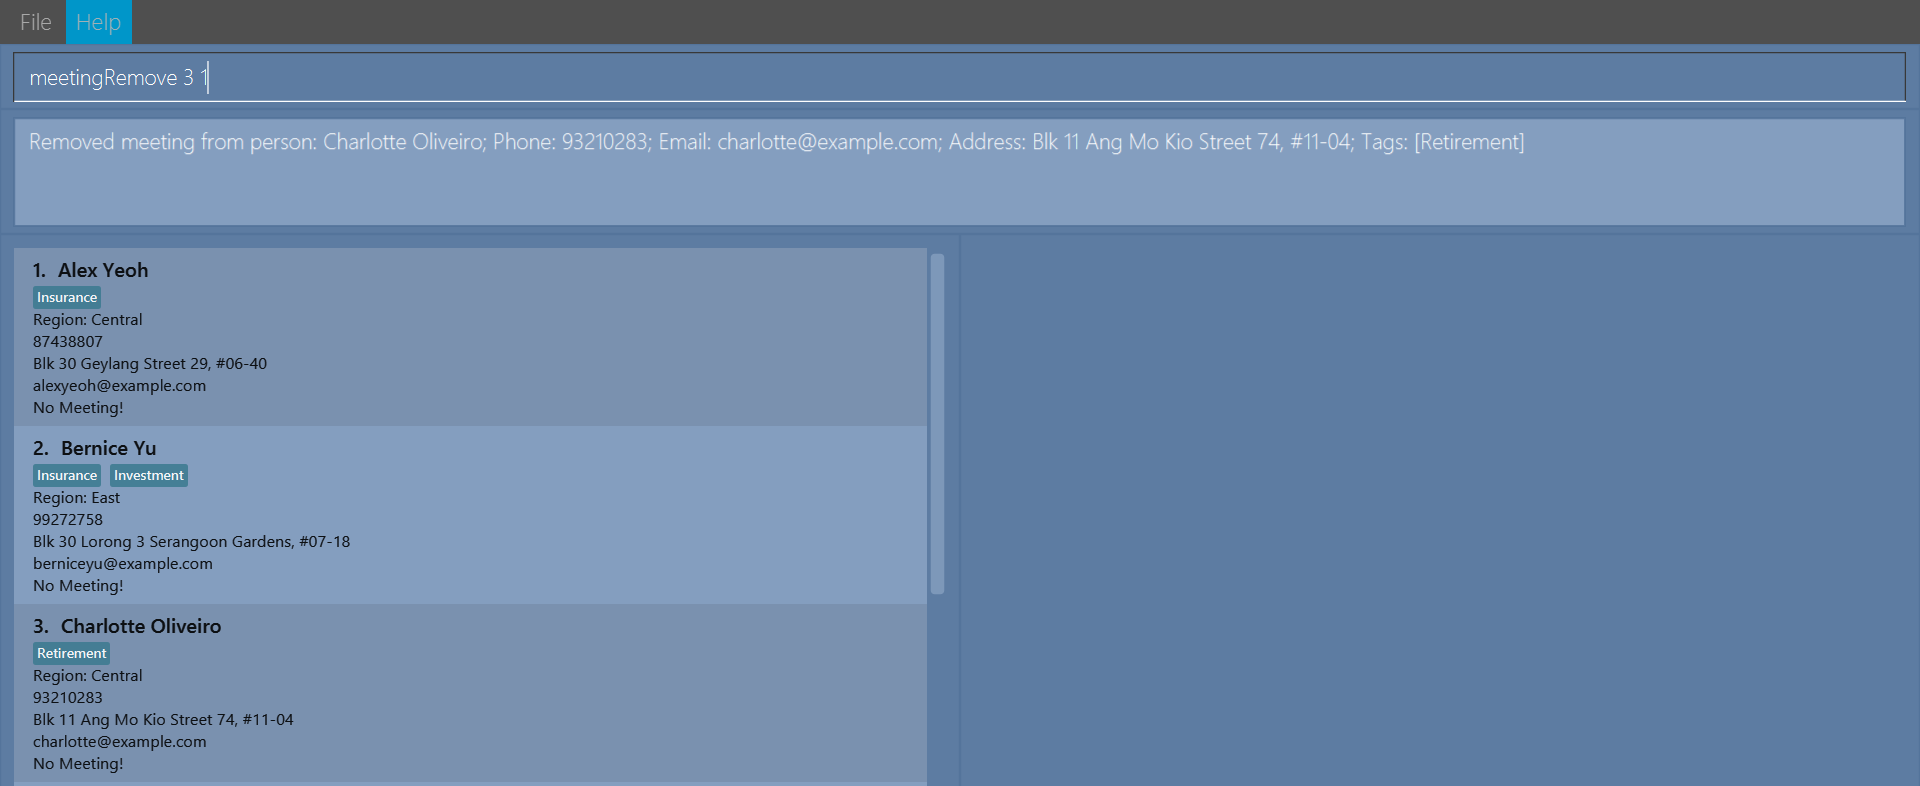
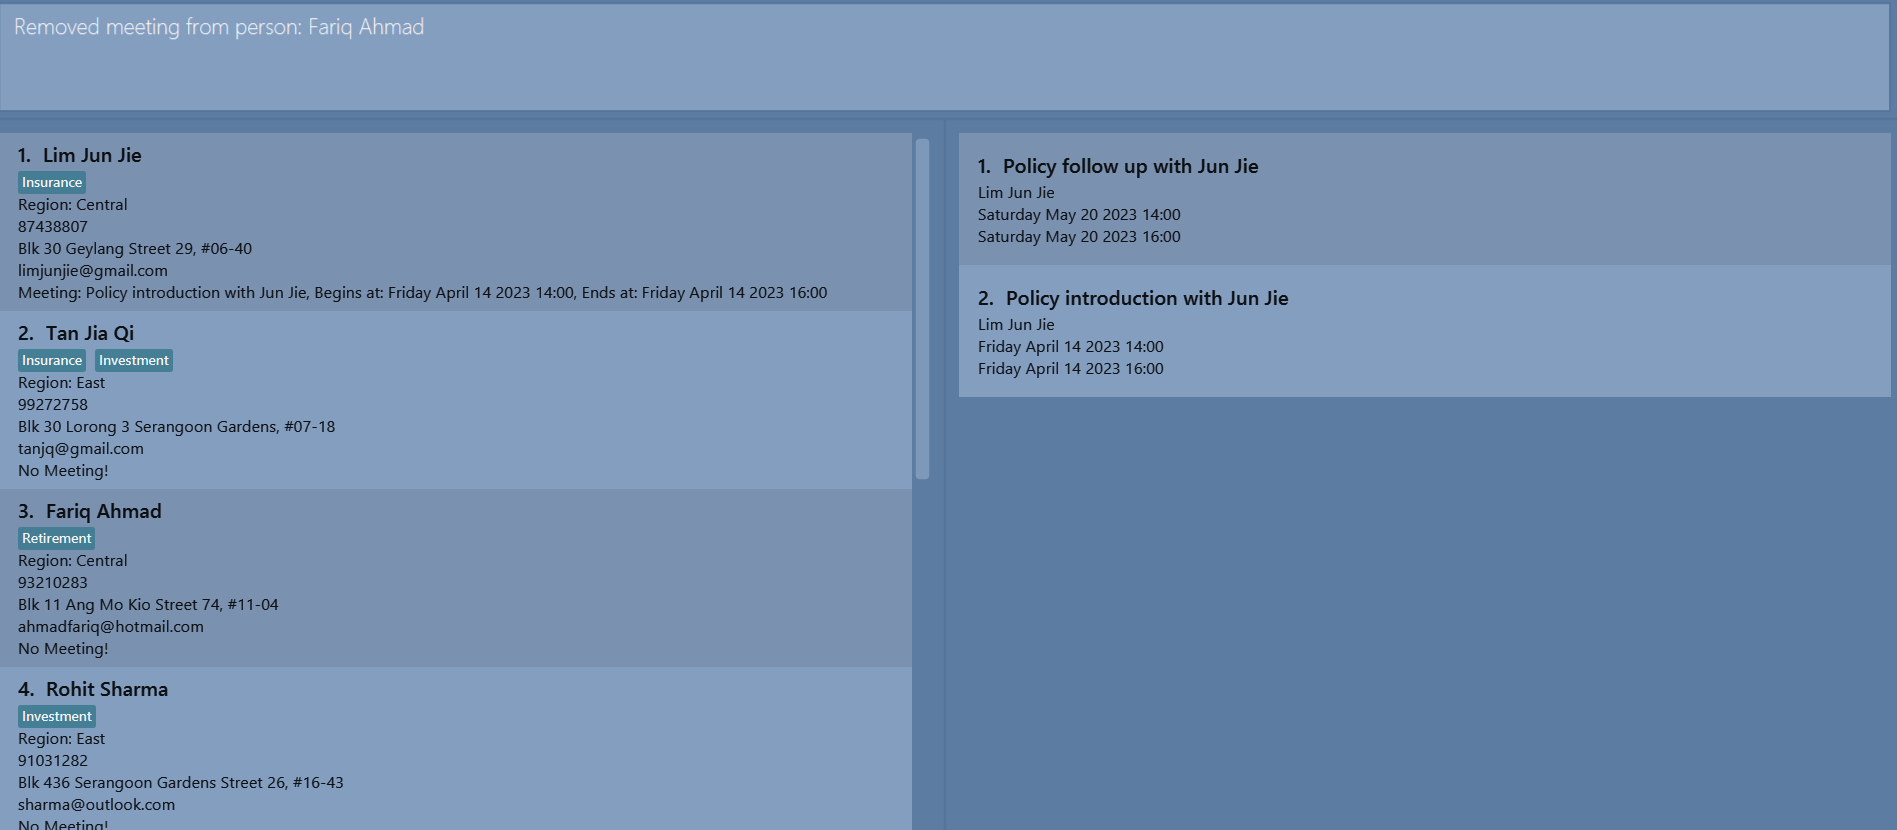
Update photos for User Guide
Update photos for User Guide

Changed region(s): [[0.0, 0.0, 1.0, 1.0]]

diff --git a/docs/UserGuide.md b/docs/UserGuide.md
@@ -176,7 +176,7 @@ Examples:
 
 * `find John` returns `john` and `John Doe`
 * `find alex david` returns `Alex Yeoh`, `David Li`<br>
-  ![result for 'find alex david'](images/findAlexDavidResult.png)
+  ![result for 'find alex david'](images/findFariqRohit.png)
 
 ### Deleting a client : `delete`
 
@@ -214,7 +214,7 @@ Notes:
 * Meeting must not conflict in timing with other meetings scheduled for the day.
 * Meetings must not be scheduled before the current date and time.
 
-![result for 'meetingAdd 3 md/ Meeting with Charlotte ms/ 14-04-2023 12:30 me/14-04-2023 13:30`](images/meetingAddCharlotte.PNG)
+![result for 'meetingAdd 3 md/ Meeting with Fariq ms/ 14-04-2023 12:30 me/14-04-2023 13:30`](images/meetingAddFariq.PNG)
 
 
 
